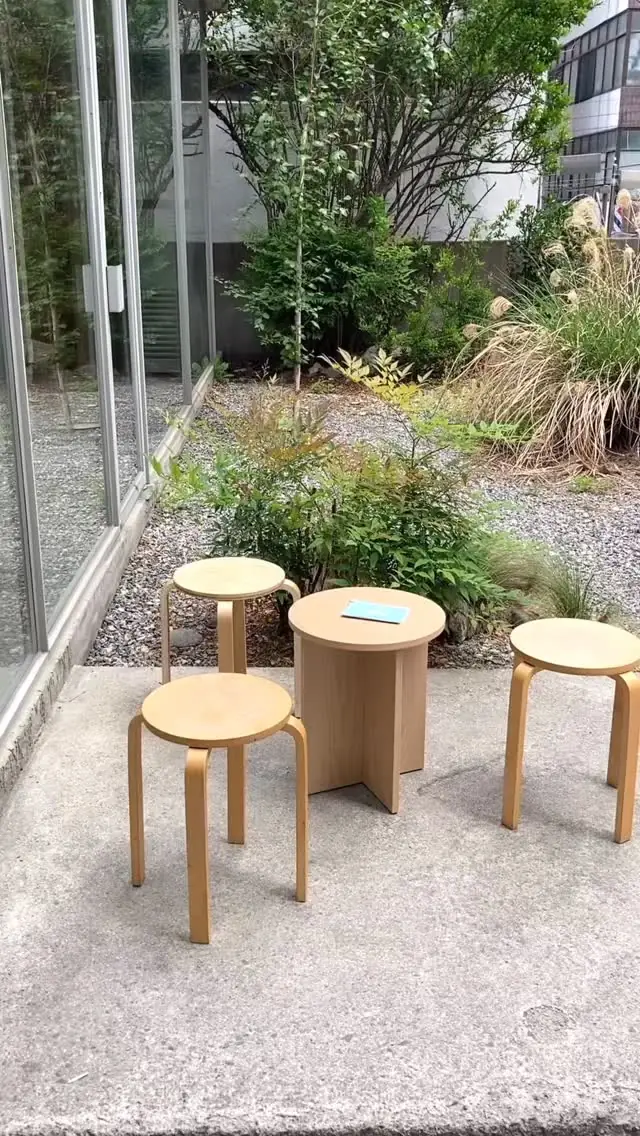
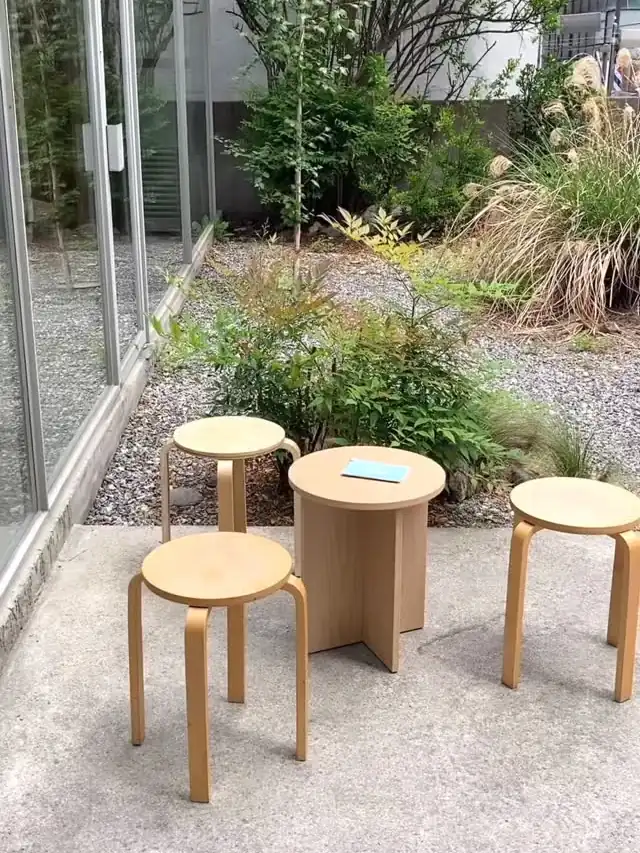
Add files via upload

diff --git a/index.html b/index.html
@@ -99,6 +99,7 @@ h2{ font-weight:600; font-size:clamp(1.6rem, 4.6vw, 2.3rem); line-height:1.35; l
 .hero-photo{ position:relative; aspect-ratio:4/5; overflow:hidden; border-radius:var(--r); }
 .hero-photo img{ position:absolute; inset:0; width:100%; height:100%; object-fit:cover; }
 @media (max-width:379px){ .cta3 .btn{ font-size:.86rem; padding:0 14px; } }
+@media (max-width:359px){ .cta3 .btn:last-child{ grid-column:1 / -1; } }
 @media (min-width:640px){ .cta3{ display:flex; flex-wrap:wrap; } .hero-photo{ aspect-ratio:4/3; } }
 @media (min-width:900px){ .hero{ padding:56px 0 104px; } .hero-grid{ grid-template-columns:minmax(0,.9fr) minmax(0,1.1fr); gap:64px; align-items:center; } }
 
@@ -312,7 +313,7 @@ h2{ font-weight:600; font-size:clamp(1.6rem, 4.6vw, 2.3rem); line-height:1.35; l
       <span class="label reveal">03 공간</span>
       <h2 id="space-h" class="reveal">공간</h2>
       <div class="gallery reveal">
-        <figure class="tall"><img src="tm-garden.webp" alt="작은 정원 앞 콘크리트 바닥에 놓인 원목 스툴과 테이블" width="640" height="1136" loading="lazy" /><figcaption>야외 좌석</figcaption></figure>
+        <figure class="tall"><img src="tm-garden.webp" alt="작은 정원 앞 콘크리트 바닥에 놓인 원목 스툴과 테이블" width="640" height="853" loading="lazy" /><figcaption>야외 좌석</figcaption></figure>
         <figure><img src="tm-window.webp" alt="통창 너머로 보이는 정원" width="900" height="1198" loading="lazy" /><figcaption>통창</figcaption></figure>
         <figure><img src="tm-house.webp" alt="파란 하늘 아래 연한 민트빛 건물 외벽" width="900" height="1200" loading="lazy" /><figcaption>외관</figcaption></figure>
       </div>
@@ -345,7 +346,7 @@ h2{ font-weight:600; font-size:clamp(1.6rem, 4.6vw, 2.3rem); line-height:1.35; l
             <div><dt>전화</dt><dd><a href="tel:050713675808" class="nw">0507-1367-5808</a></dd></div>
           </dl>
           <div class="notice">
-            <p>추가 휴무일은 인스타그램에 공지돼요. 방문 전에 한 번 확인해 주세요.</p>
+            <p>방문 전에 인스타그램 공지를 한 번 확인해 주세요.</p>
             <a class="btn" href="https://www.instagram.com/tumcoffeehouse/" target="_blank" rel="noopener">인스타그램 공지 보기</a>
           </div>
           <div class="cta">

diff --git a/CHANGELOG.md b/CHANGELOG.md
@@ -1,5 +1,13 @@
 # CHANGELOG · 텀 커피하우스 Tum Coffee house (서울 마포 합정 · 카페)
 
+## v0.1.3 · 2026-11-16 (코드 검토 반영 · 원문: 문서/검토지침/검토원문/tumcoffeehouse-sample_20261116_코드.md)
+- 다올 결정: 1~4 빌더 추천안대로 반영, 5 네이버 플레이스 링크 정상(다올 확인).
+- 1: 359px 이하에서 히어로 전화 버튼을 한 줄 전체 폭으로(320px 실측 넘침 0).
+- 2: `tm-garden.webp` 146KB → 89KB(원본 640×1136을 표시 비율 3:4로 640×853 크롭 + 재압축, width/height 속성 맞춤). 히어로 · 통창 사진은 그대로.
+- 3: 오시는 길 반복 해소 — 영업 줄의 사장님 원문 "월요일 정기 휴무. 추가 휴무일은 공지됩니다"는 유지, 안내 상자는 "방문 전에 인스타그램 공지를 한 번 확인해 주세요."로.
+- 4: STRUCTURE 머리말 버전 · 레포 주소 갱신.
+- 서브셋 누락 0, 자동 점검 ❌0 ⚠0.
+
 ## v0.1.2 · 2026-11-16 (화면 검토 반영 · 원문: 문서/검토지침/검토원문/tumcoffeehouse-sample_20261116_화면.md)
 - 다올 결정: 1 · 2 · 3 · 5 반영, 4(카푸치노 사진 톤) 그대로, 라벨 "03 공간" 그대로, 브랜드 표기(House / house 혼용) 상관없음.
 - 1: 휴무 안내 "인스타그램에 먼저 공지돼요" → "인스타그램에 공지돼요"("먼저"는 근거 없는 빌더 표현).

diff --git a/STRUCTURE.md b/STRUCTURE.md
@@ -1,4 +1,4 @@
-# STRUCTURE · tumcoffeehouse-sample (v0.1 · 배포 예정 tumcoffeehouse-sample.lgt3232.workers.dev · 레포 이름은 다올이 정함)
+# STRUCTURE · tumcoffeehouse-sample (v0.1.3 · 배포 tumcoffeehouse-sample.lgt3232.workers.dev · 레포 github.com/Daorl8/tumcoffeehouse-sample)
 
 ```
 tumcoffeehouse-sample/
